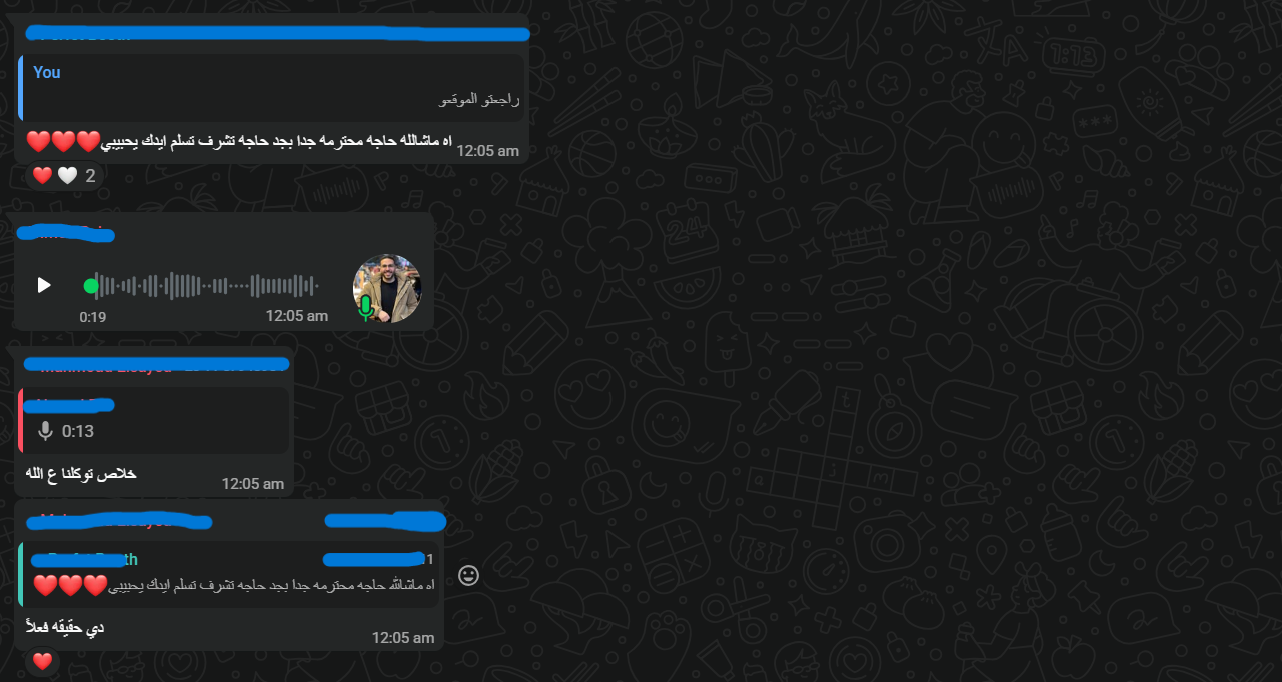
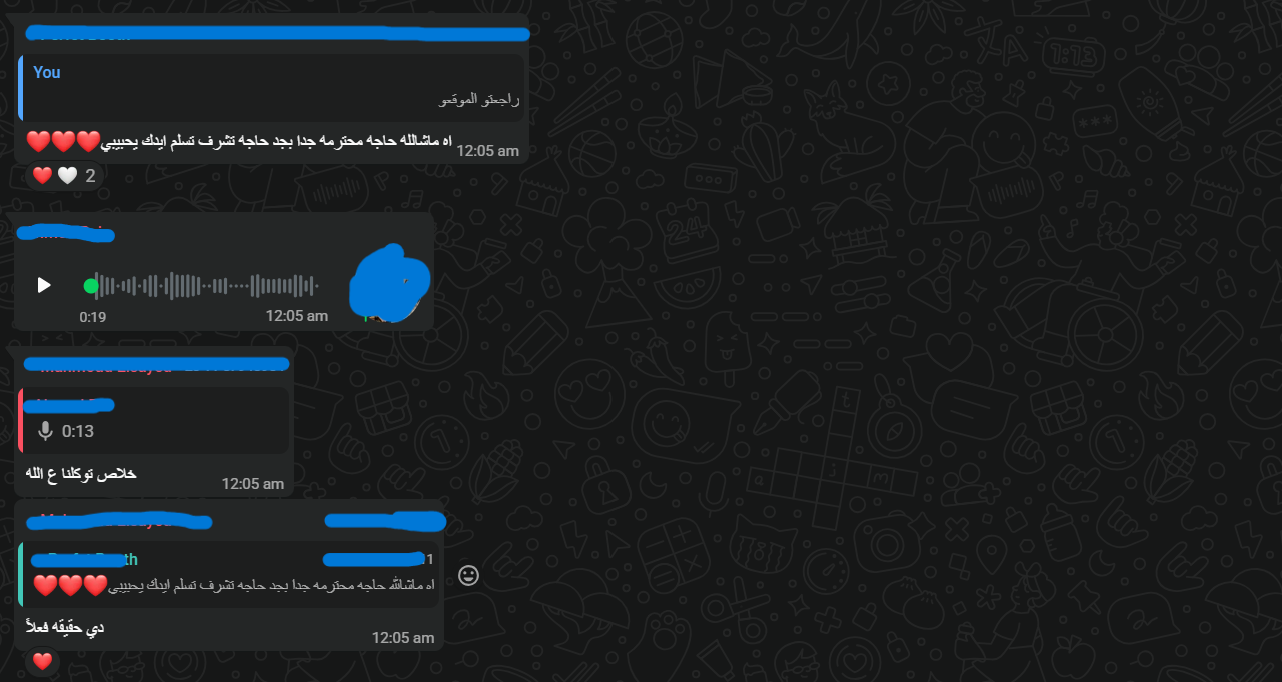
fix: Fix inline company badge display and remove trailing comma line break in About Me section

Changed region(s): [[0.2496, 0.3387, 0.3432, 0.4927]]

diff --git a/src/style.css b/src/style.css
@@ -878,16 +878,17 @@ header, #nav-overlay {
 }
 
 .company-badge {
-  display: inline-flex;
-  align-items: center;
+  display: inline;
   font-weight: 600;
   color: #ffffff;
   background: rgba(255, 255, 255, 0.08);
-  padding: 0.2rem 0.6rem;
+  padding: 0.15rem 0.55rem;
   border-radius: 6px;
   border: 1px solid rgba(255, 255, 255, 0.15);
   font-size: 0.88rem;
-  margin: 0 0.15rem;
+  white-space: nowrap;
+  box-decoration-break: clone;
+  -webkit-box-decoration-break: clone;
 }
 
 .spec-list {

diff --git a/src/views/Home.js b/src/views/Home.js
@@ -183,9 +183,6 @@ export function renderHome() {
             <span class="dot" data-index="2"></span>
           </div>
         </div>
-      </section>     </div>
-          </div>
-        </div>
       </section>
 
       <!-- About Section -->
